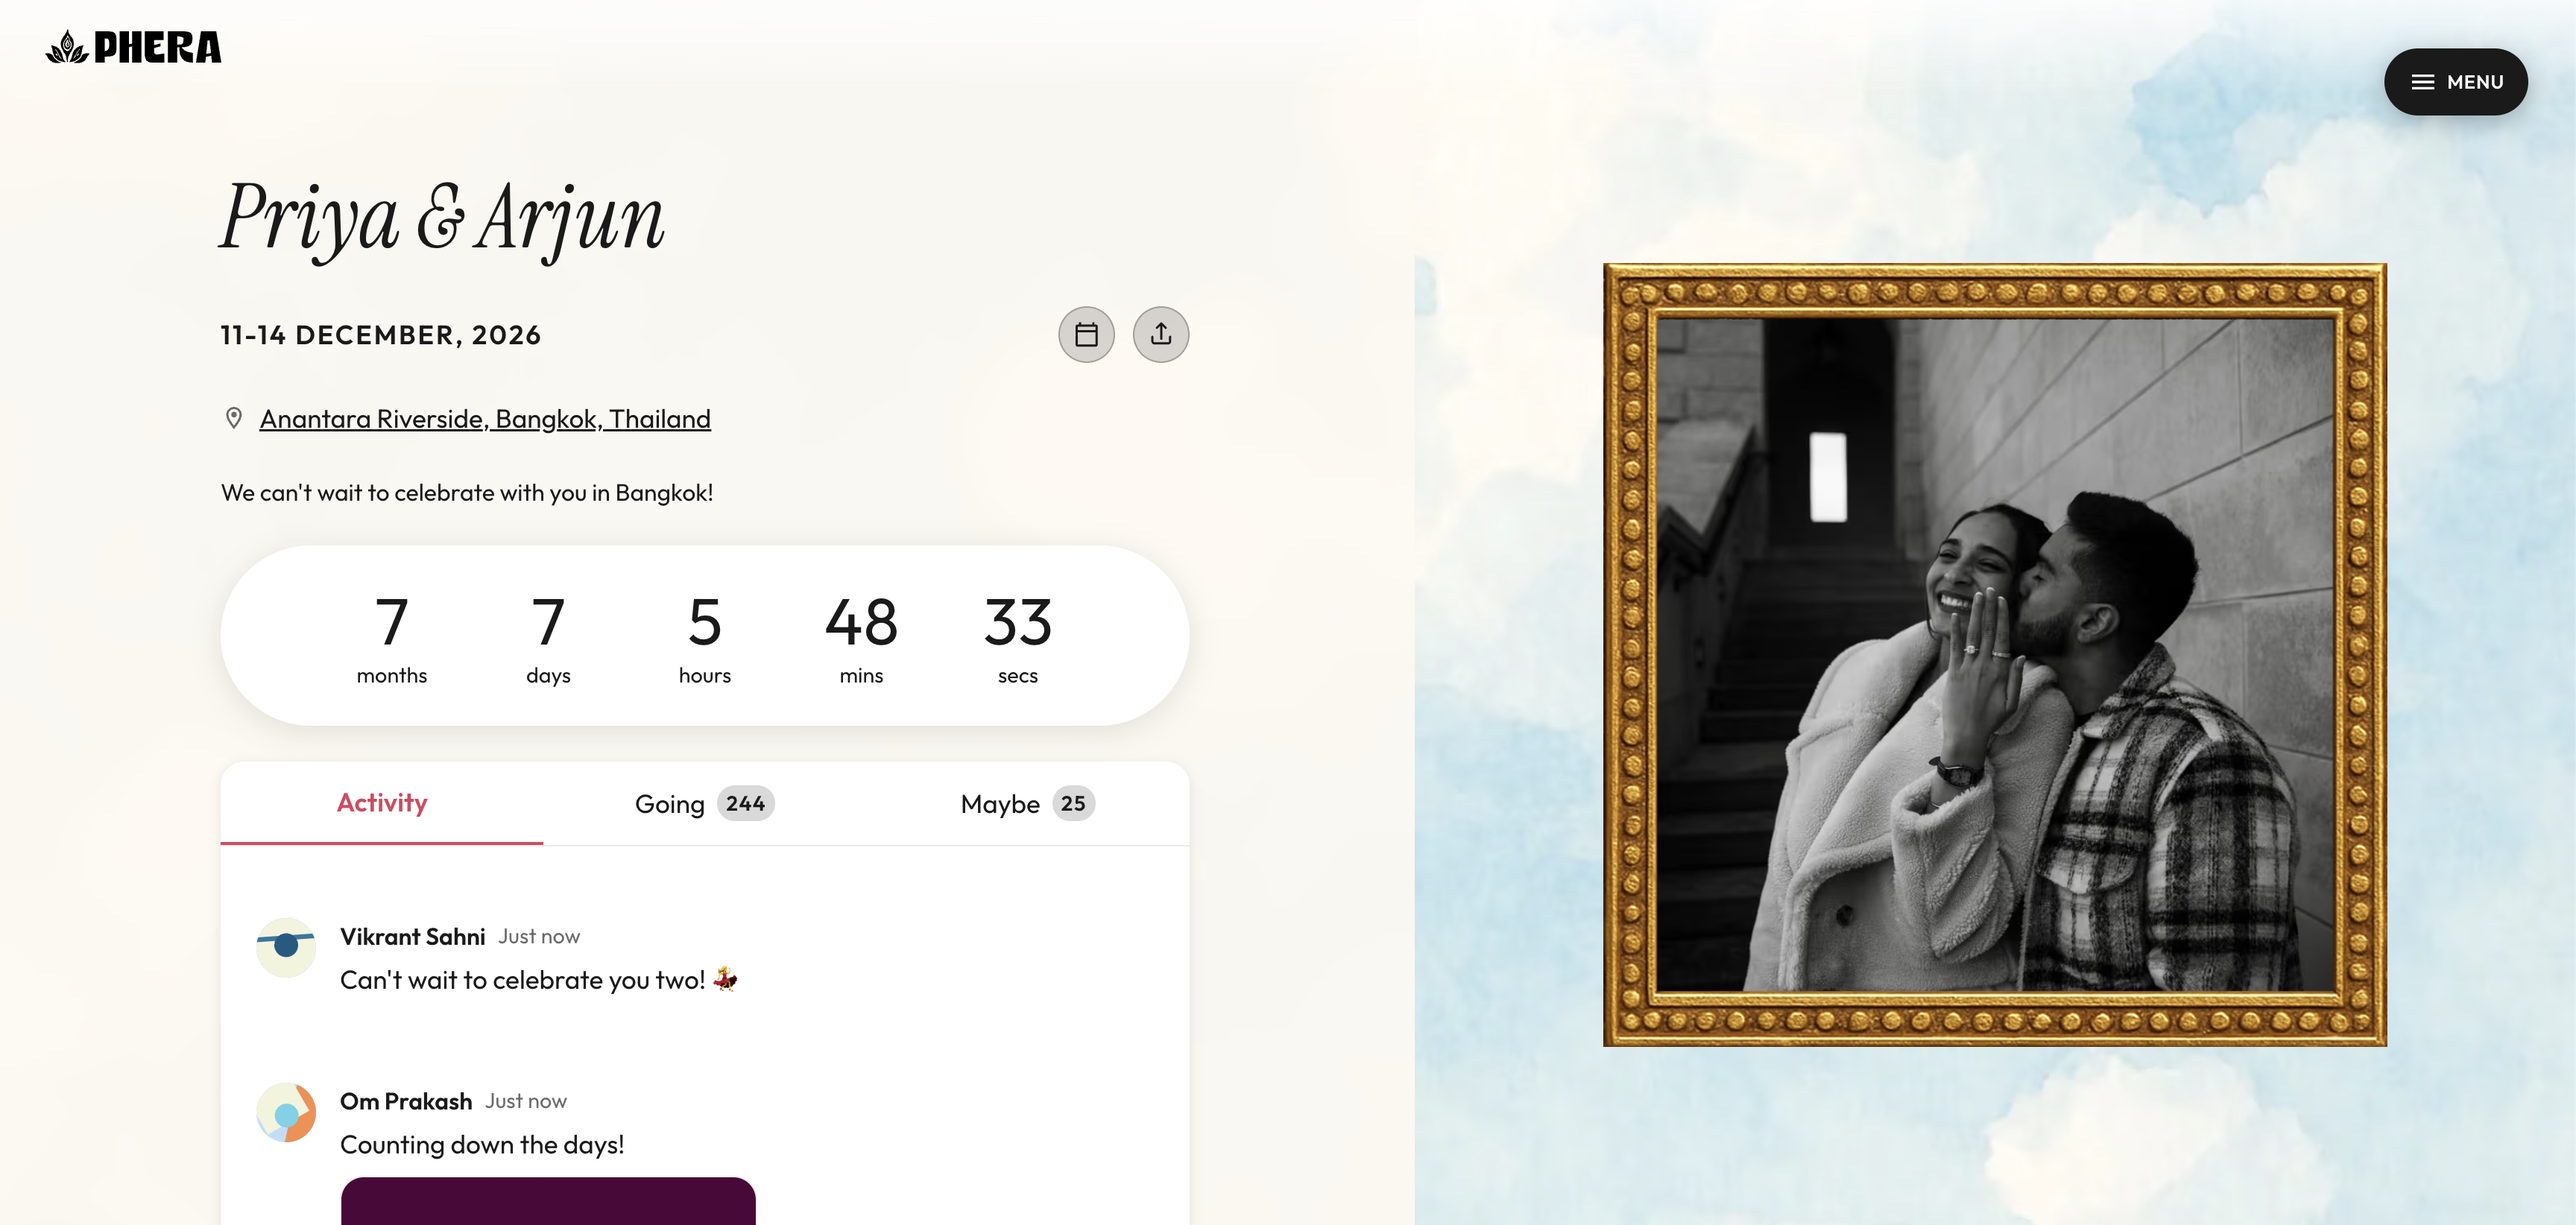
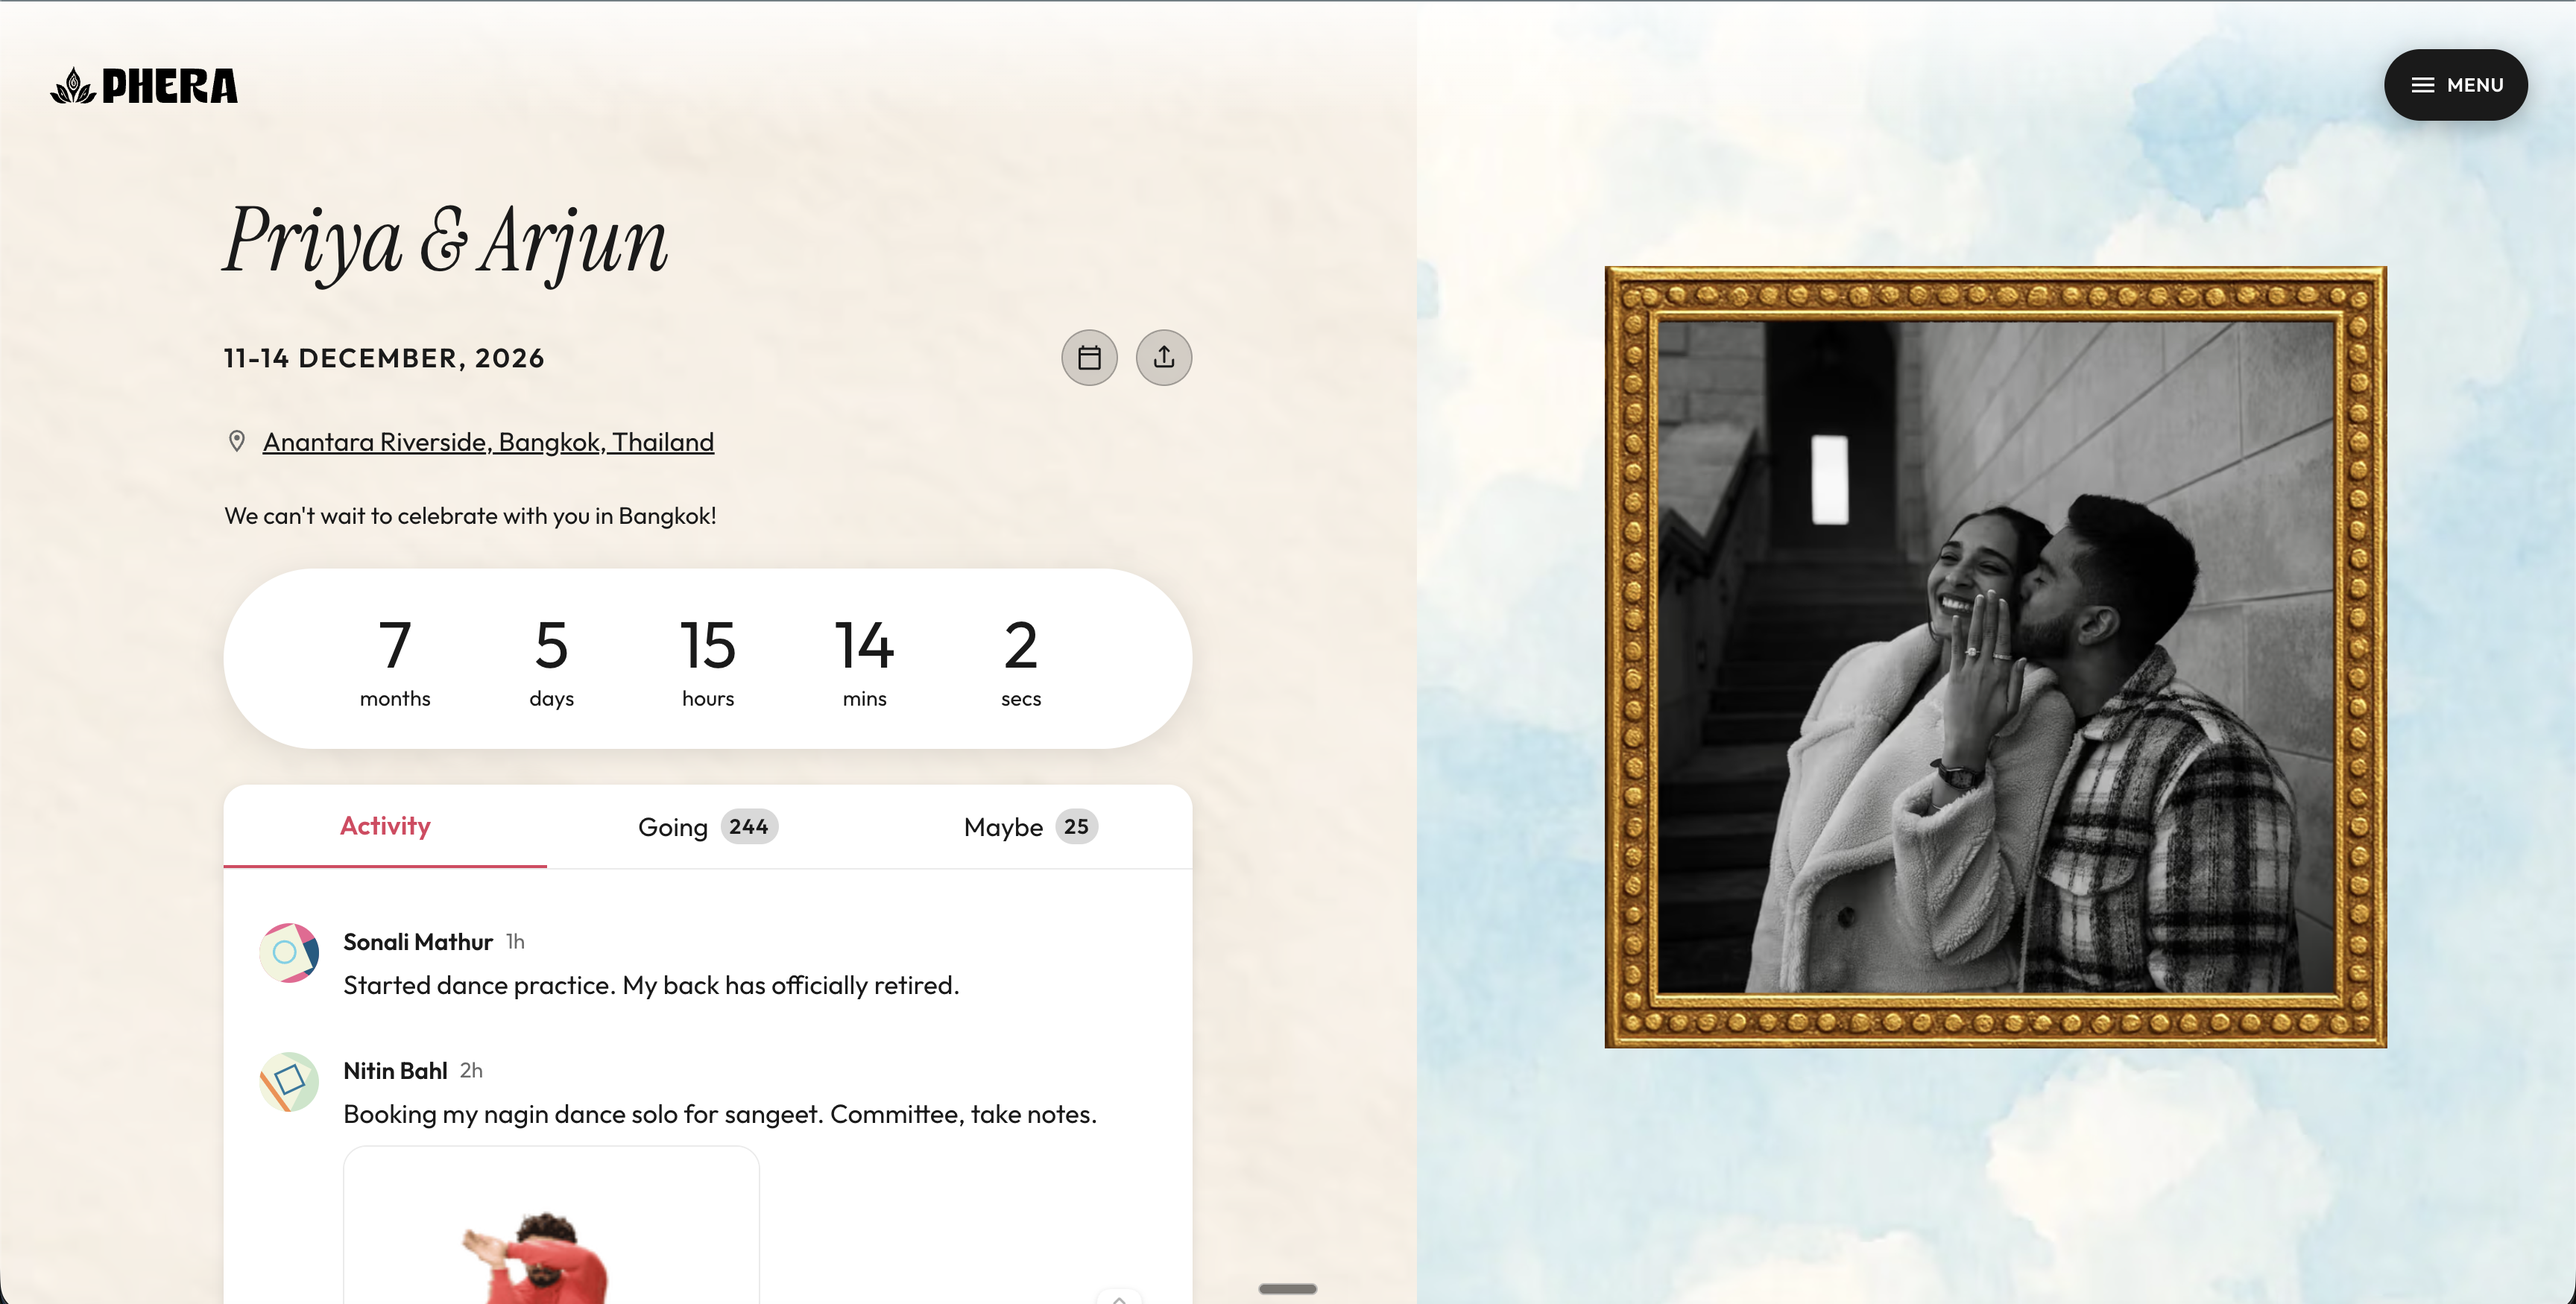
fix(landing): wedding-website mock fits new browser.png exactly
Image swapped to 3456 × 1750 (was 3456 × 1644) — the prior aspect-ratio
container clipped the new screenshot's edges. Replace the
aspect-ratio + objectFit:cover trick with a plain
width:100% / height:auto Image so the browser frame always matches the
source image's natural proportions, no math, no letterbox, no clipping.

Also drop the browser frame's drop shadow and the phone's drop+inset
shadows — they read as visual noise next to the cream-paper landing
background.

diff --git a/components/landing/feature-mocks/WeddingWebsiteMock.tsx b/components/landing/feature-mocks/WeddingWebsiteMock.tsx
@@ -6,9 +6,13 @@
  * Static composition: the couple's wedding website (desktop) with a
  * compact phone in the corner showing the per-event mobile carousel.
  *
- * Container aspect ratios are LOCKED to the source images so the
- * screenshots fill their frames exactly, no letterboxing:
- *   browser.png   3456 × 1644  → aspect 2.103
+ * The browser image dictates its own height (width:100% / height:auto),
+ * so the frame always fits the screenshot exactly — no aspect-ratio
+ * math, no letterboxing, no edge clipping when the source image is
+ * swapped for a taller version.
+ *
+ * Carousel container aspect is still locked to the source so the phone
+ * stays a phone:
  *   carousel.png   726 × 1400  → aspect 0.519
  *
  * The phone uses a plain rounded-rectangle device outline (not the
@@ -24,7 +28,8 @@ import { COLORS } from '@/lib/theme/tokens';
 const BROWSER_SRC = '/images/feature_images/browser.png';
 const CAROUSEL_SRC = '/images/feature_images/carousel.png';
 const BROWSER_CHROME_HEIGHT = 30;
-const BROWSER_IMG_ASPECT = 3456 / 1644; // ≈ 2.103
+const BROWSER_IMG_W = 3456;
+const BROWSER_IMG_H = 1750;
 const PHONE_IMG_ASPECT = 726 / 1400;    // ≈ 0.519
 
 export default function WeddingWebsiteMock() {
@@ -57,7 +62,6 @@ export default function WeddingWebsiteMock() {
           borderRadius: '14px',
           overflow: 'hidden',
           border: '1px solid rgba(0,0,0,0.1)',
-          boxShadow: '0 24px 60px rgba(0,0,0,0.10), 0 6px 16px rgba(0,0,0,0.06)',
           bgcolor: '#FBF7F1',
           display: 'flex',
           flexDirection: 'column',
@@ -106,21 +110,17 @@ export default function WeddingWebsiteMock() {
           </Box>
         </Box>
 
-        {/* Page content — aspect ratio matches the image so it fills exactly. */}
-        <Box
-          sx={{
-            position: 'relative',
-            aspectRatio: `${BROWSER_IMG_ASPECT}`,
-            width: '100%',
-            bgcolor: '#FBF7F1',
-          }}
-        >
+        {/* Page content — image drives its own height. width:100% +
+            height:auto means the rendered frame always matches the
+            image's natural aspect, even after the source is swapped. */}
+        <Box sx={{ width: '100%', bgcolor: '#FBF7F1', lineHeight: 0 }}>
           <Image
             src={BROWSER_SRC}
             alt="Wedding website preview"
-            fill
+            width={BROWSER_IMG_W}
+            height={BROWSER_IMG_H}
             sizes="(max-width: 900px) 100vw, 600px"
-            style={{ objectFit: 'cover', objectPosition: 'top' }}
+            style={{ width: '100%', height: 'auto', display: 'block' }}
             priority={false}
           />
         </Box>
@@ -137,7 +137,6 @@ export default function WeddingWebsiteMock() {
           borderRadius: '20px',
           padding: '6px',
           bgcolor: '#1a1a1a',
-          boxShadow: '0 22px 32px rgba(0,0,0,0.22), 0 0 0 1px rgba(0,0,0,0.4) inset',
           opacity: ready ? 1 : 0,
           transform: ready ? 'translateY(0)' : 'translateY(8px)',
           transition: 'opacity 0.6s ease 0.18s, transform 0.6s ease 0.18s',
